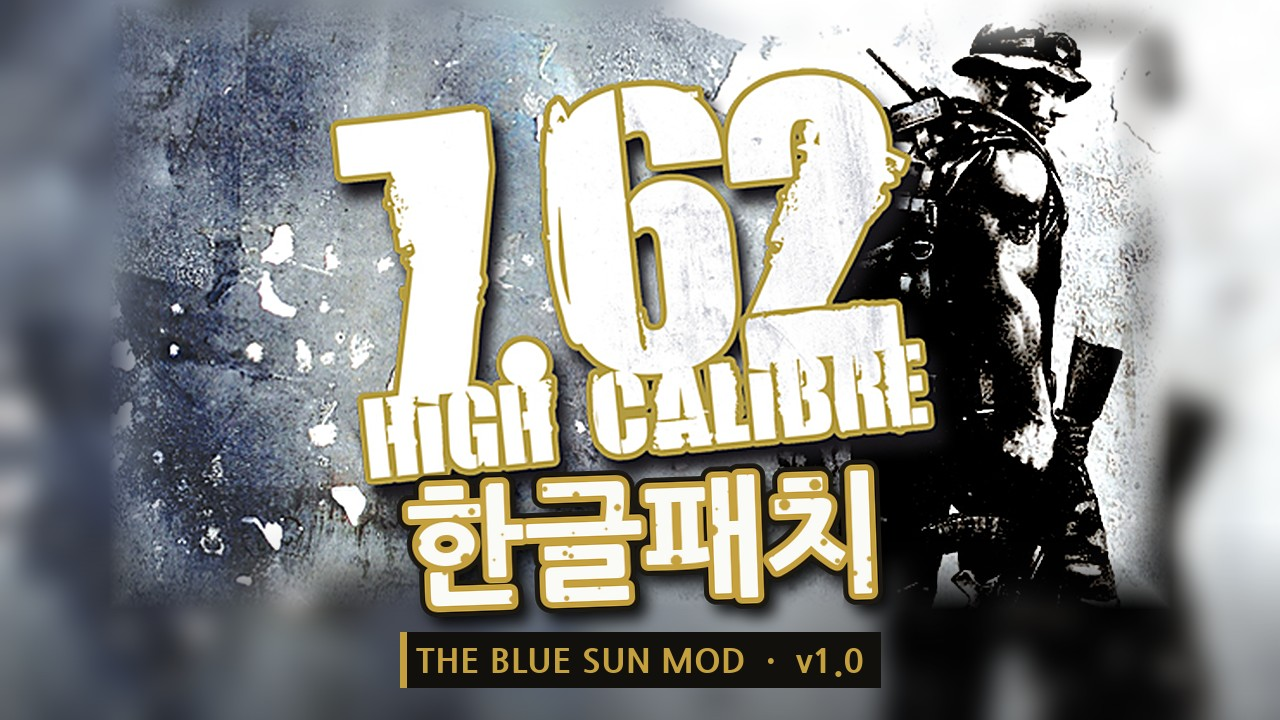
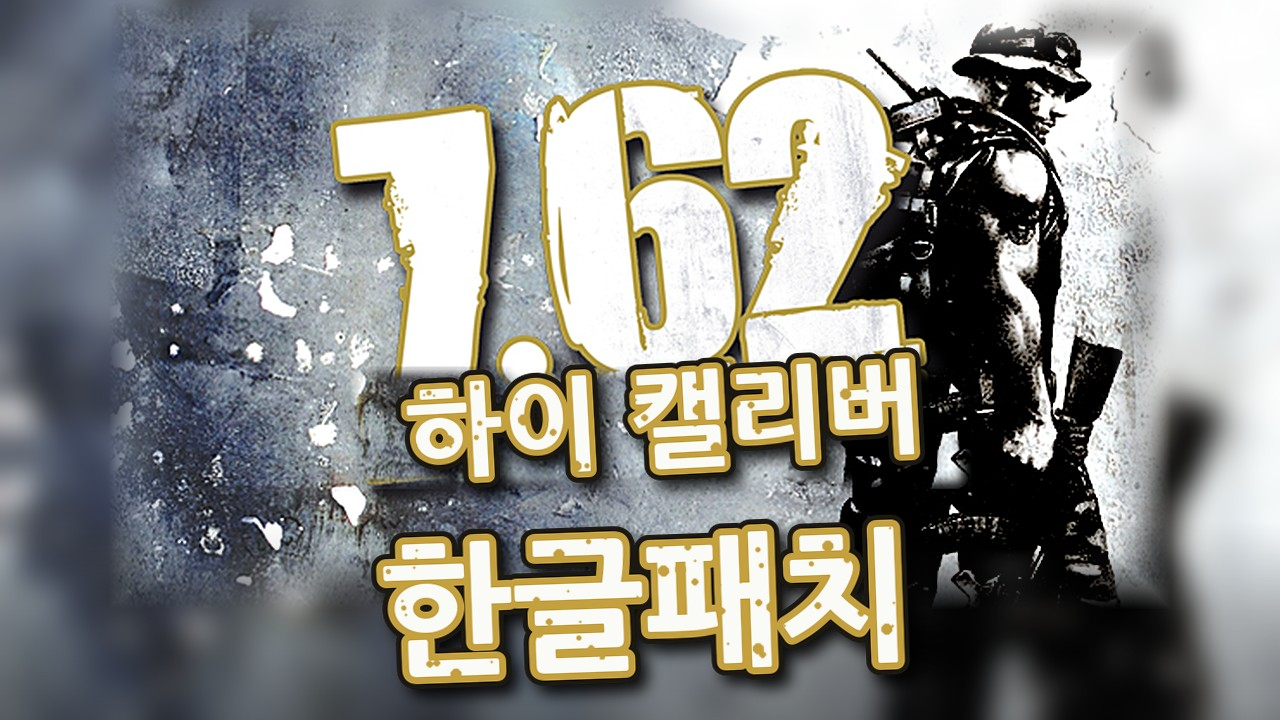
Thumbnail: Korean subtitle, drop version tag

Changed region(s): [[0.25, 0.4583, 0.7812, 0.9778]]

diff --git a/tools/make_thumb.py b/tools/make_thumb.py
@@ -11,6 +11,17 @@ GOLD = (196, 160, 62)
 DARK = (28, 24, 18)
 
 src = Image.open(sys.argv[1]).convert("RGB")
+# Erase the English "HIGH CALIBRE" (art coords x 140-500, y 200-275) by cloning the plain
+# grunge from just below it, with soft edges; "하이 캘리버" is drawn in its place later.
+HC = (138, 212, 500, 283)
+patch = src.crop((HC[0], 282, HC[2], 282 + HC[3] - HC[1]))
+pm = Image.new("L", patch.size, 0)
+pd = ImageDraw.Draw(pm)
+pd.rectangle([6, 4, patch.width - 7, patch.height - 5], fill=255)
+dx, dy = 243 - HC[0], 206 - HC[1]          # keep the "." of 7.62
+pd.ellipse([dx - 17, dy - 17, dx + 17, dy + 17], fill=0)
+pm = pm.filter(ImageFilter.GaussianBlur(3))
+src.paste(patch, HC[:2], pm)
 # background: the art scaled to cover, blurred; foreground: the art shrunk into the top
 s = max(W / src.width, H / src.height)
 bg = src.resize((round(src.width * s), round(src.height * s)), Image.LANCZOS)
@@ -70,18 +81,16 @@ def stamp(text, font, xy, fill, stroke, sw, angle, seed):
     img.paste(layer, (xy[0] - pad, xy[1] - pad), layer)
 
 
-big = ImageFont.truetype(FONT, 128)
-bw = big.getbbox("한글패치")[2]
-stamp("한글패치", big, (640 - bw // 2, 452), (250, 250, 246), GOLD, 6, 2, 7)
+# "하이 캘리버" where HIGH CALIBRE was (art -> thumb: x*k + fx, y*k, k = FH / art height)
+k = FH / src.height
+mid = fx + (HC[0] + HC[2]) / 2 * k
+sub = ImageFont.truetype(FONT, 104)
+sw_ = sub.getbbox("하이 캘리버")[2]
+stamp("하이 캘리버", sub, (int(mid - sw_ / 2), int(HC[1] * k) - 26), (250, 250, 246), GOLD, 6, 3, 11)
 
-small = ImageFont.truetype(FONT, 34)
-tag = "THE BLUE SUN MOD  ·  v1.0"
-d = ImageDraw.Draw(img)
-tb = d.textbbox((0, 0), tag, font=small)
-tx, ty = 640 - tb[2] // 2, 640
-d.rectangle([tx - 16, ty - 8, tx + tb[2] + 16, ty + tb[3] + 10], fill=(18, 16, 12))
-d.rectangle([tx - 16, ty - 8, tx - 10, ty + tb[3] + 10], fill=GOLD)
-d.text((tx, ty), tag, font=small, fill=GOLD)
+big = ImageFont.truetype(FONT, 142)
+bw = big.getbbox("한글패치")[2]
+stamp("한글패치", big, (640 - bw // 2, 505), (250, 250, 246), GOLD, 7, 2, 7)
 
 img.save(sys.argv[2])
 print("saved", sys.argv[2], img.size)
